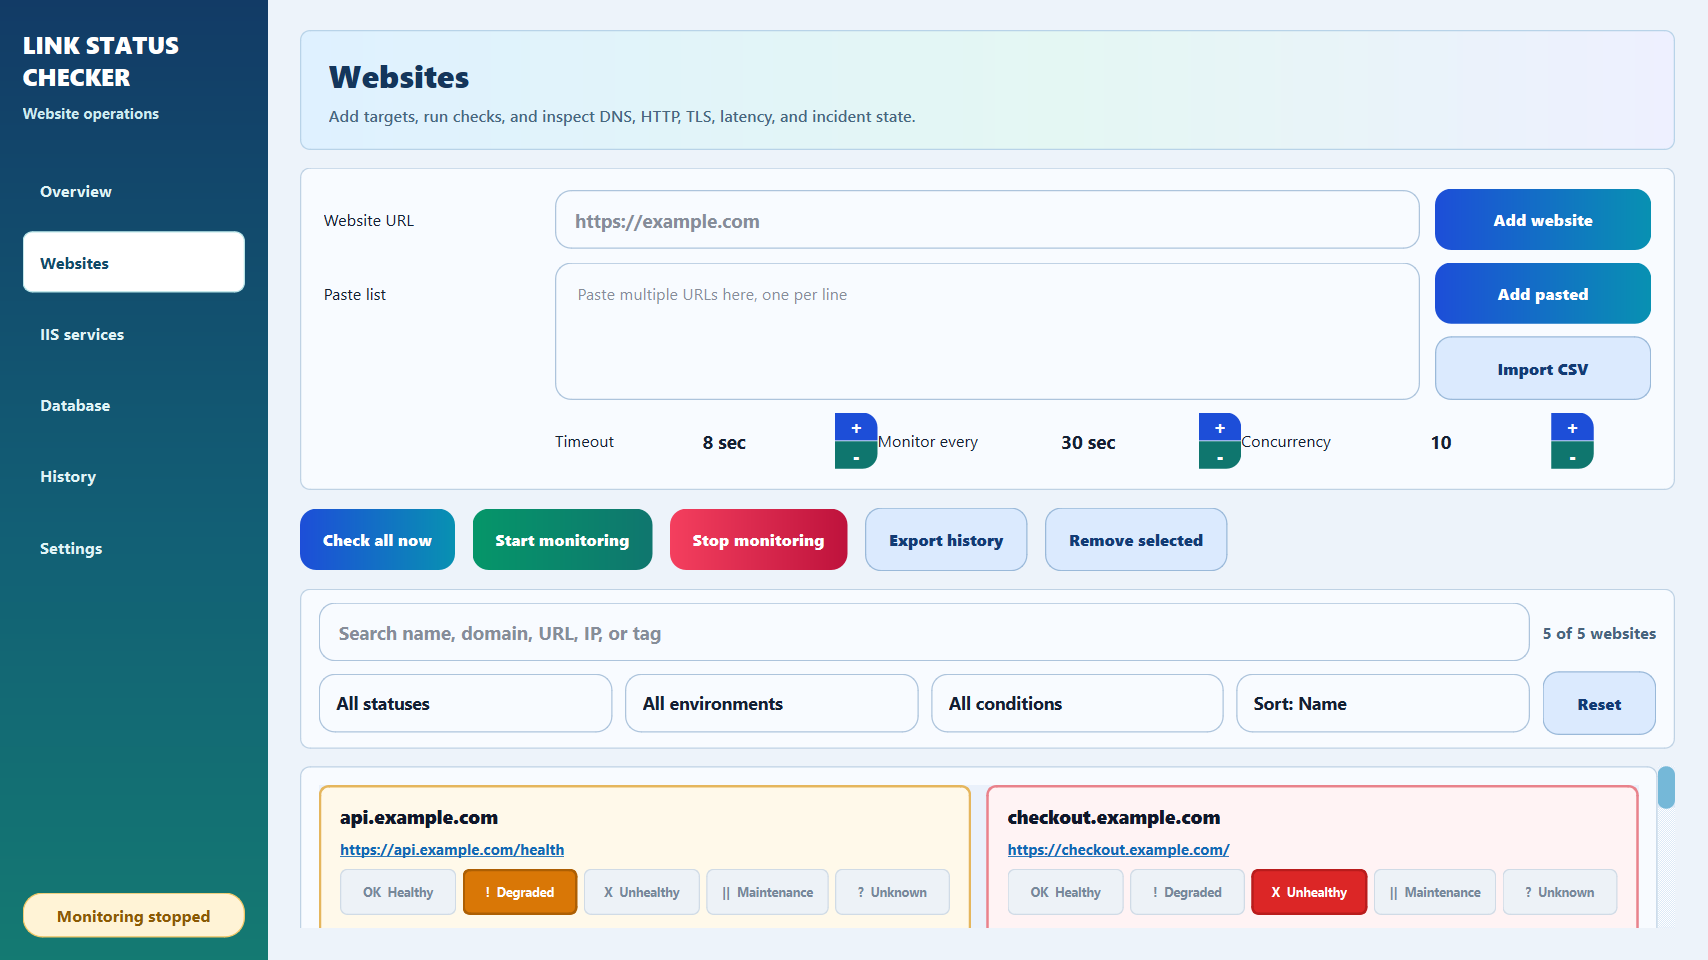
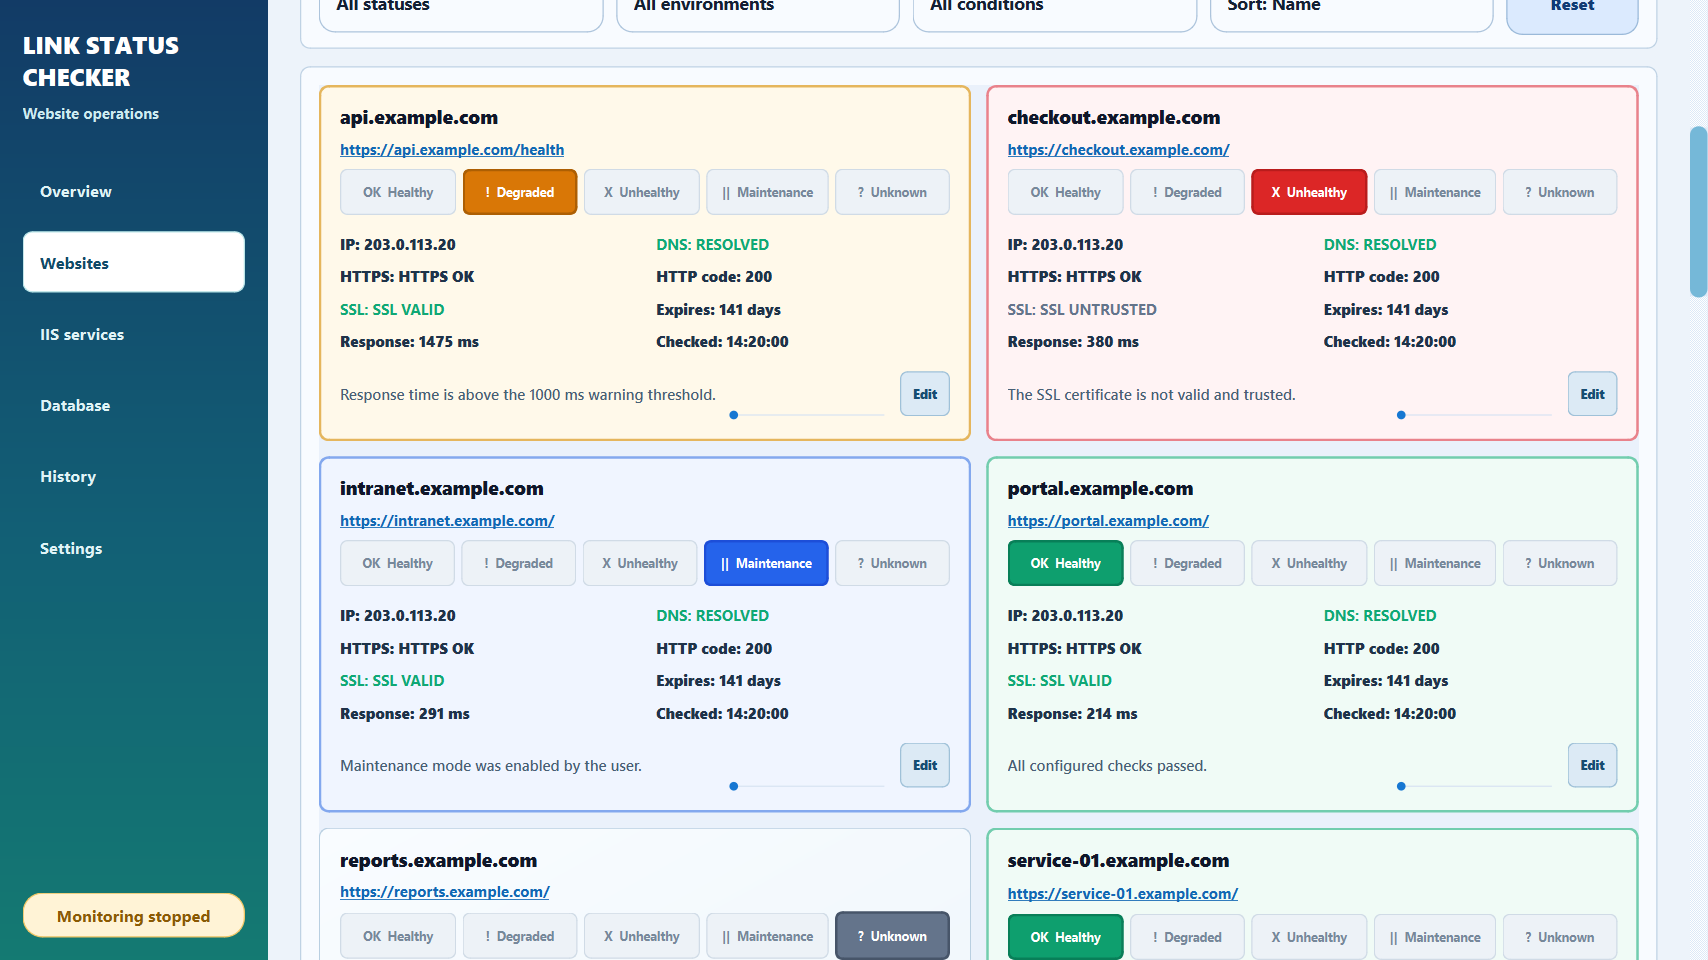
Let website cards scroll with the full page

diff --git a/scripts/capture_screenshots.py b/scripts/capture_screenshots.py
@@ -64,6 +64,7 @@ def main() -> int:
             "https://checkout.example.com/",
             "https://intranet.example.com/",
             "https://reports.example.com/",
+            *[f"https://service-{index:02d}.example.com/" for index in range(1, 20)],
         ]
         window.add_links(urls)
         window.handle_link_result(result(urls[0], response=214))
@@ -71,6 +72,8 @@ def main() -> int:
         window.handle_link_result(result(urls[2], response=380, ssl_status="SSL UNTRUSTED"))
         window.handle_link_result(result(urls[3], response=291))
         window.handle_status_request(urls[3], "MAINTENANCE")
+        for index, url in enumerate(urls[5:], start=1):
+            window.handle_link_result(result(url, response=180 + index * 11))
         window.show()
         app.processEvents()
 
@@ -78,6 +81,9 @@ def main() -> int:
         app.processEvents()
         window.grab().save(str(output / "overview.png"))
         window.show_page(1)
+        app.processEvents()
+        websites_page = window.page_stack.widget(1)
+        websites_page.verticalScrollBar().setValue(560)
         app.processEvents()
         window.grab().save(str(output / "websites.png"))
         window.close()

diff --git a/src/link_status_checker/application.py b/src/link_status_checker/application.py
@@ -1948,12 +1948,15 @@ class MainWindow(QMainWindow):
         pager.addStretch(1)
         dashboard_layout.addLayout(pager)
 
-        dashboard_scroll = QScrollArea()
-        dashboard_scroll.setWidgetResizable(True)
-        dashboard_scroll.setFrameShape(QFrame.Shape.NoFrame)
-        dashboard_scroll.setWidget(dashboard)
-        outer.addWidget(dashboard_scroll, 1)
-        return content
+        outer.addWidget(dashboard)
+
+        page_scroll = QScrollArea()
+        page_scroll.setObjectName("WebsitesPageScroll")
+        page_scroll.setWidgetResizable(True)
+        page_scroll.setFrameShape(QFrame.Shape.NoFrame)
+        page_scroll.setHorizontalScrollBarPolicy(Qt.ScrollBarPolicy.ScrollBarAlwaysOff)
+        page_scroll.setWidget(content)
+        return page_scroll
 
     def _build_settings_page(self) -> QWidget:
         content = QWidget()

diff --git a/tests/test_website_settings.py b/tests/test_website_settings.py
@@ -3,6 +3,7 @@ from __future__ import annotations
 from dataclasses import asdict
 
 from conftest import make_result
+from PySide6.QtWidgets import QScrollArea
 
 import main
 
@@ -116,3 +117,11 @@ def test_website_filters_work_together_and_reset(window):
         production.normalized_url,
         staging.normalized_url,
     ]
+
+
+def test_websites_use_one_full_page_scroll_area(window):
+    websites_page = window.page_stack.widget(1)
+
+    assert isinstance(websites_page, QScrollArea)
+    assert websites_page.objectName() == "WebsitesPageScroll"
+    assert websites_page.widget().findChildren(QScrollArea) == []

diff --git a/README.md b/README.md
@@ -67,6 +67,8 @@ Condition filters cover SSL expiry, invalid SSL, slow responses, open
 incidents, IIS related sites, and sites with monitoring disabled. Results can
 be sorted by name, severity, response time, SSL expiry, or last check. Text
 search includes the website name, domain, URL, IP address, customer, and tags.
+Cards stay in a full height two column grid. The entire page scrolls as one
+surface, so the website list does not have a separate nested scrollbar.
 
 ## Uptime and incidents
 
@@ -127,8 +129,8 @@ Double click it. Python is not required, no console window opens, and no QSS
 file needs to sit beside the executable. The theme, icon, SQLite support, and
 SQL Server runtime files are bundled.
 
-The verified 3.0.0 executable is `54,924,984` bytes. The previous executable
-was `65,215,121` bytes, so this build is `10,290,137` bytes smaller, a `15.78%`
+The verified 3.0.0 executable is `54,925,925` bytes. The previous executable
+was `65,215,121` bytes, so this build is `10,289,196` bytes smaller, a `15.78%`
 reduction.
 
 Logs, settings, and monitoring history are written under:

diff --git a/CHANGELOG.md b/CHANGELOG.md
@@ -10,6 +10,8 @@
   statistics, certificate snapshots, and incident tracking.
 * Added the Overview, Websites, IIS, Database, History, and Settings pages.
 * Added status filters, search, pagination, and lightweight latency sparklines.
+* Changed the Websites page to one full page scroll so every card keeps its
+  full height without a separate dashboard scrollbar.
 * Removed the 50 website cap. The tested target is 2,000 saved websites with 50
   rendered cards per page.
 * Moved writable data to `%LOCALAPPDATA%\LinkStatusChecker`.

diff --git a/docs/release_checklist.md b/docs/release_checklist.md
@@ -40,9 +40,9 @@ files beside it.
 * Optional tests skipped: 1
 * Ruff: passed
 * Formatting check: passed
-* Final executable: 54,924,984 bytes
-* Size reduction: 10,290,137 bytes, or 15.78%
[1 lines of base64/hex data omitted]
+* Final executable: 54,925,925 bytes
+* Size reduction: 10,289,196 bytes, or 15.78%
[1 lines of base64/hex data omitted]
 
 ## Known limits
 
